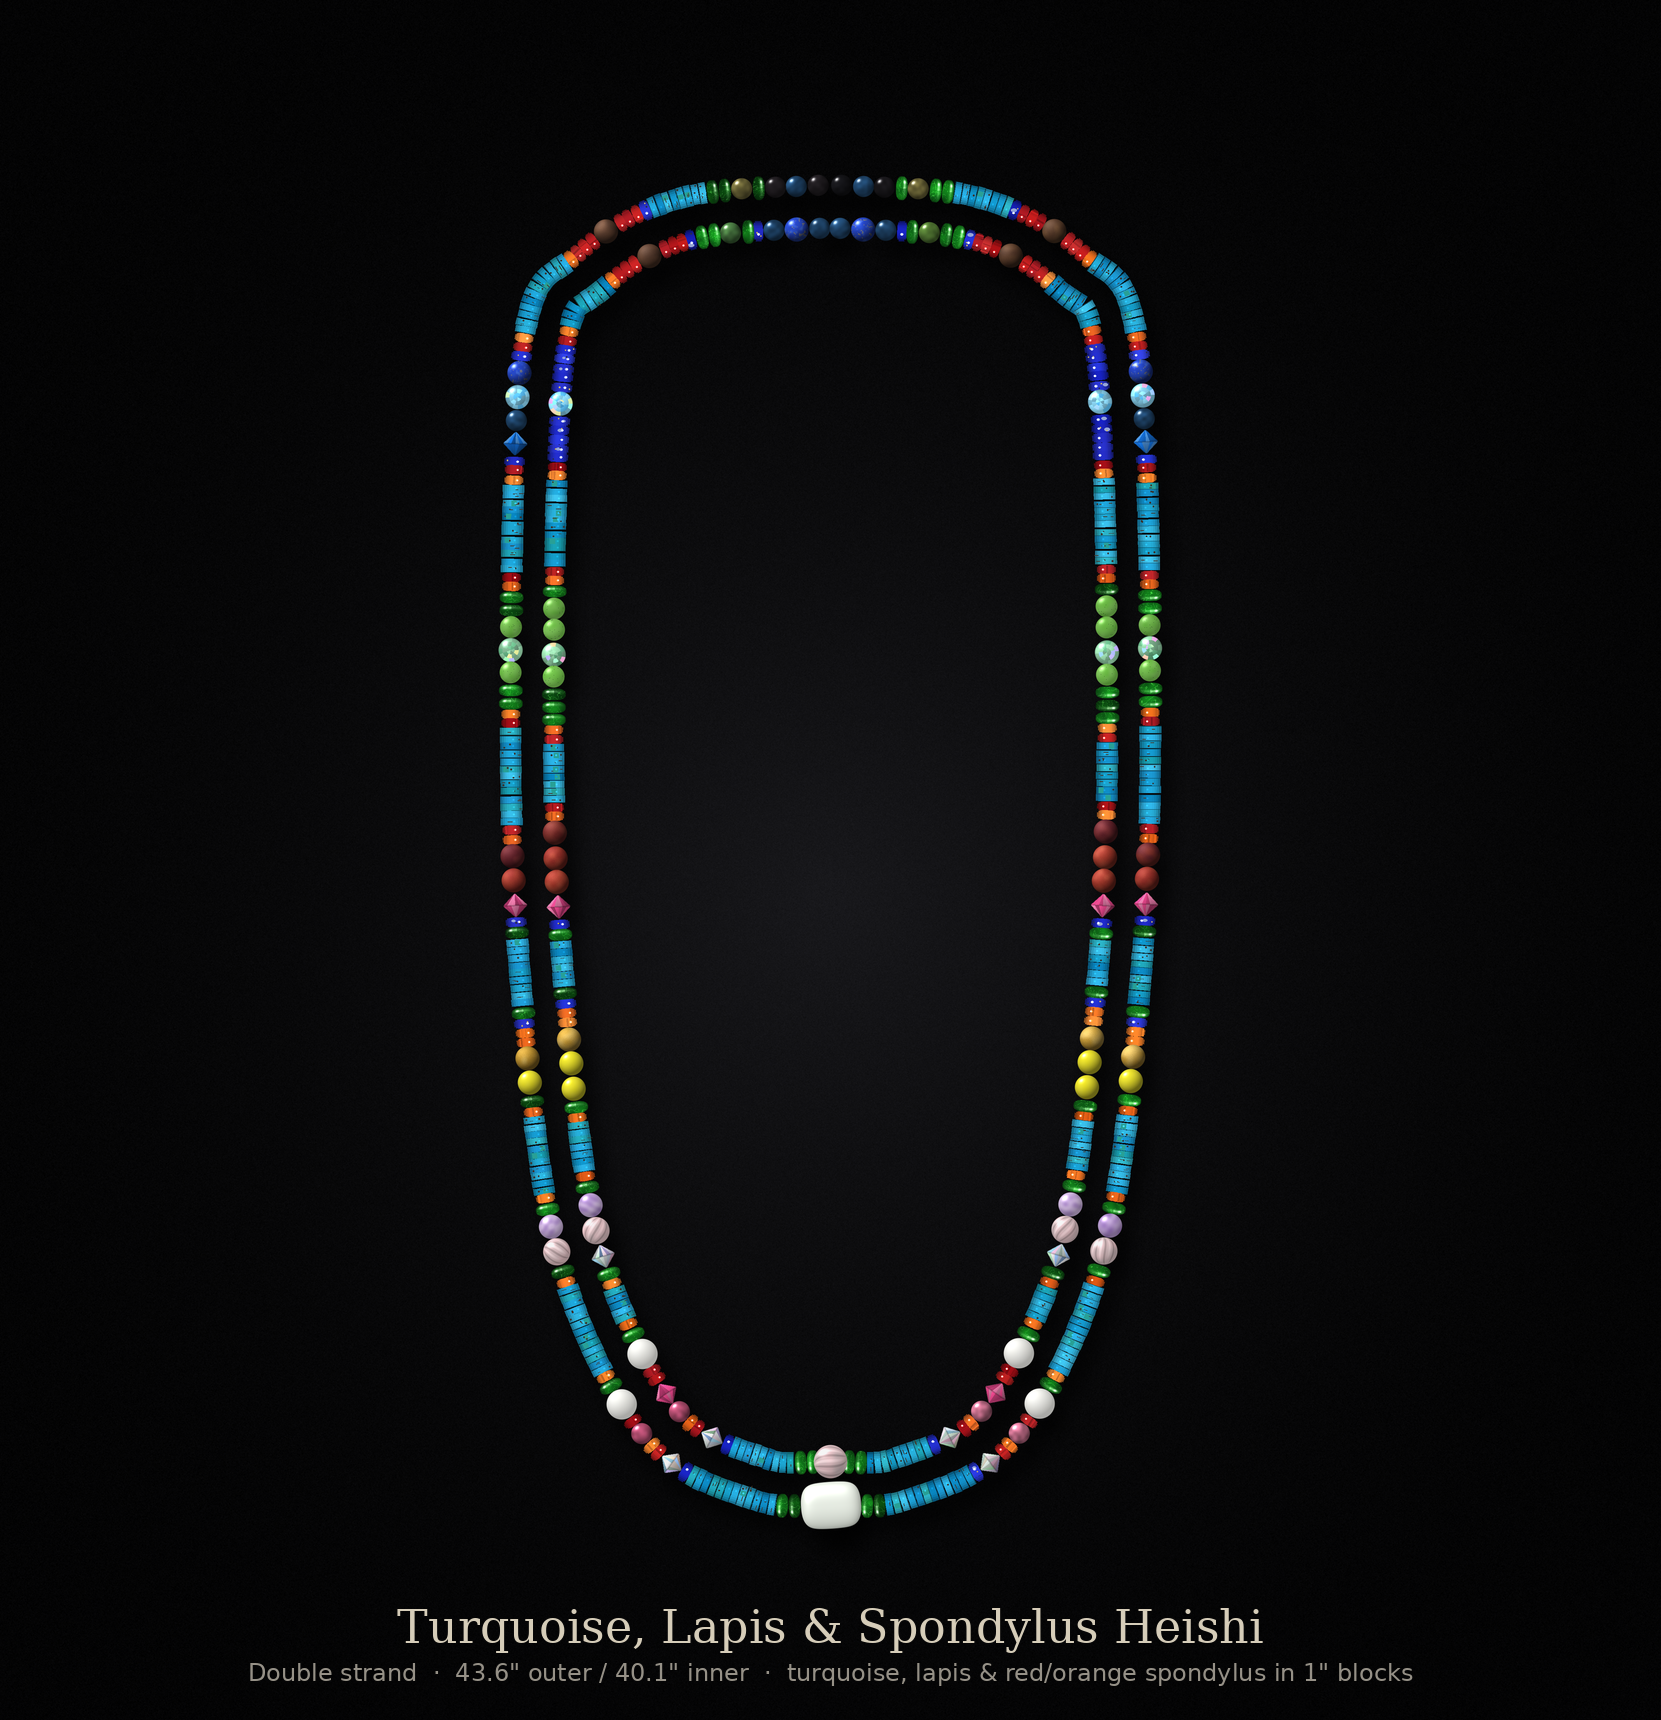
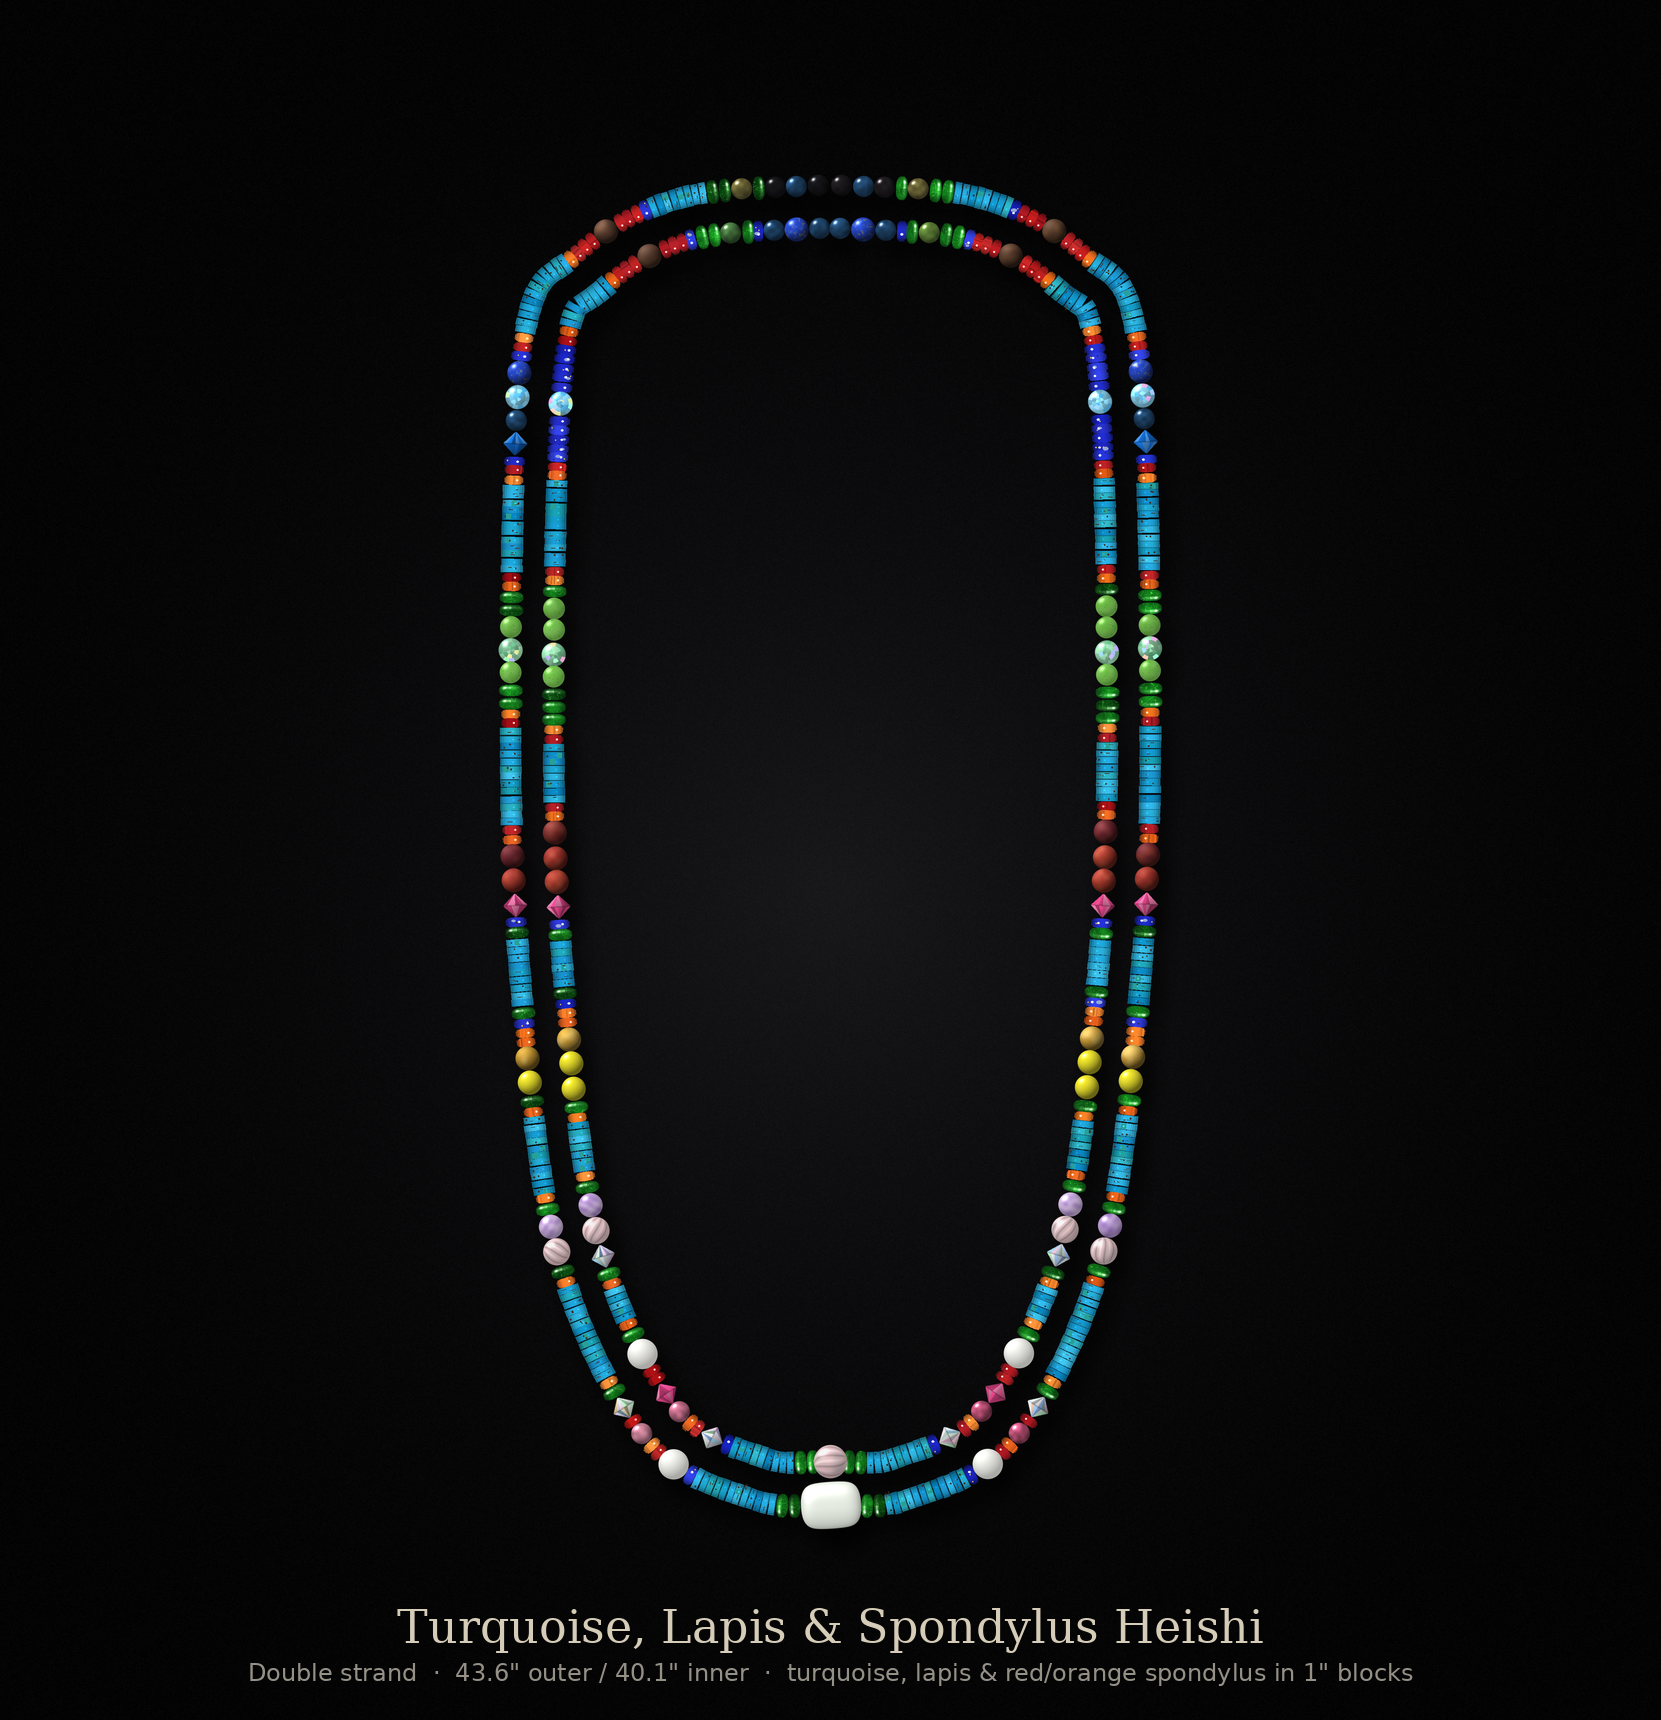
Version 5: AB bicone replaces the outer white opal further out instead (centre opal restored)
Claude-Session: https://claude.ai/code/session_014be1vF4Rdf8sv9Si75Gudv

diff --git a/necklace/render_necklace.py b/necklace/render_necklace.py
@@ -1050,8 +1050,8 @@ if V4:
         _k = _bb.index("rbic"); assert _bb[_k - 1] == "pink" and _bb[_k + 1] == "pink"
         _bb[_k - 1:_k + 2] = ["rbic", "pink", "pink", "pink"]           # ...to the inner: rose bicone, then three tourmalines
         _bb.remove("pink"); _bb.remove("pink")                          # inner: two tourmalines removed, one left
-        assert _bo8[-2:] == ["opal10", "lapisH"], _bo8
-        _bo8[-2] = "abbic"                                              # outer: opal nearest the centre -> AB crystal bicone
+        assert _bo8[2] == "opal10", _bo8
+        _bo8[2] = "abbic"                                               # outer: the white opal further out -> AB crystal bicone
         BANDS[8] = (_bo8, _bb)
         BANDS[3] = tuple(b[:1] + b[2:] for b in BANDS[3])   # one orange fewer at the top of the yellow band (room for that diopside)
         assert all(b[1] == "orange" for b in BANDS[3])
@@ -1383,7 +1383,7 @@ if V4:
                     gaps[9] += 2 * SZ["pink"]           # more turquoise at the centre bottom of the inner strand
                 if st == 0:
                     widths[8] -= SZ["opal10"] - SZ["abbic"]
-                    gaps[9] += SZ["opal10"] - SZ["abbic"]   # ...the 2 mm go to the turquoise toward the centre
+                    gaps[8] += SZ["opal10"] - SZ["abbic"]   # ...the 2 mm go to the turquoise just above it
                 widths[5] += V5_EXT3
                 gaps[4] += V5_EXT - SZ["orange"]     # 3 more turquoise heishi under the blue band (necklace a little longer)
                 for _gi, _fl in ((1, 3.0), (0, 1.0)) + (((2, 0.0),) if st == 1 else ()) + ((1, 0.0), (0, 0.0), (2, 3.0)):   # neck lapis first; any shortfall from the next run up
